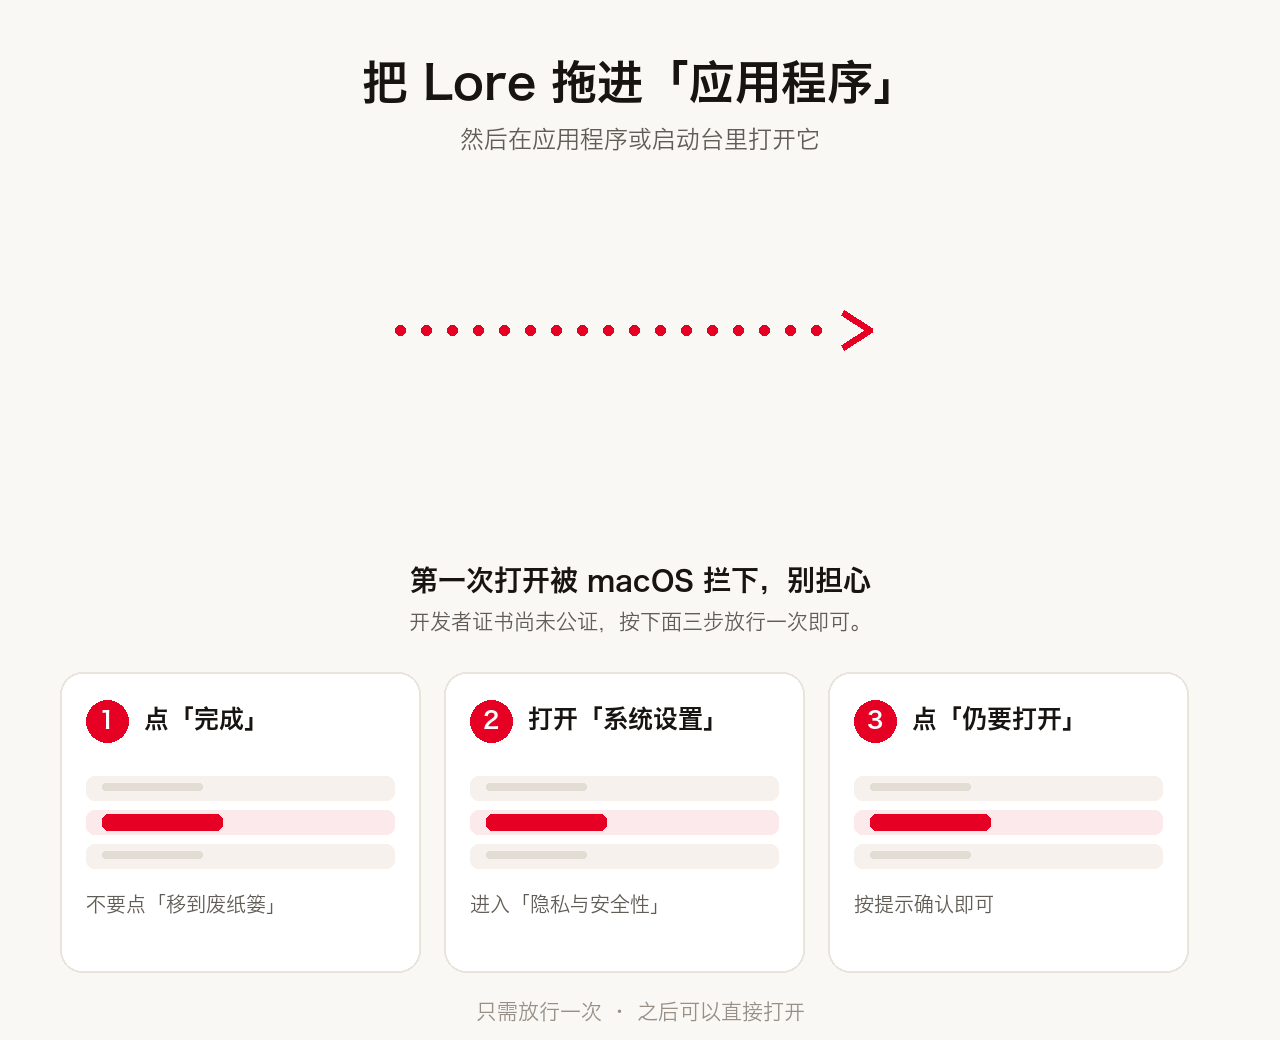
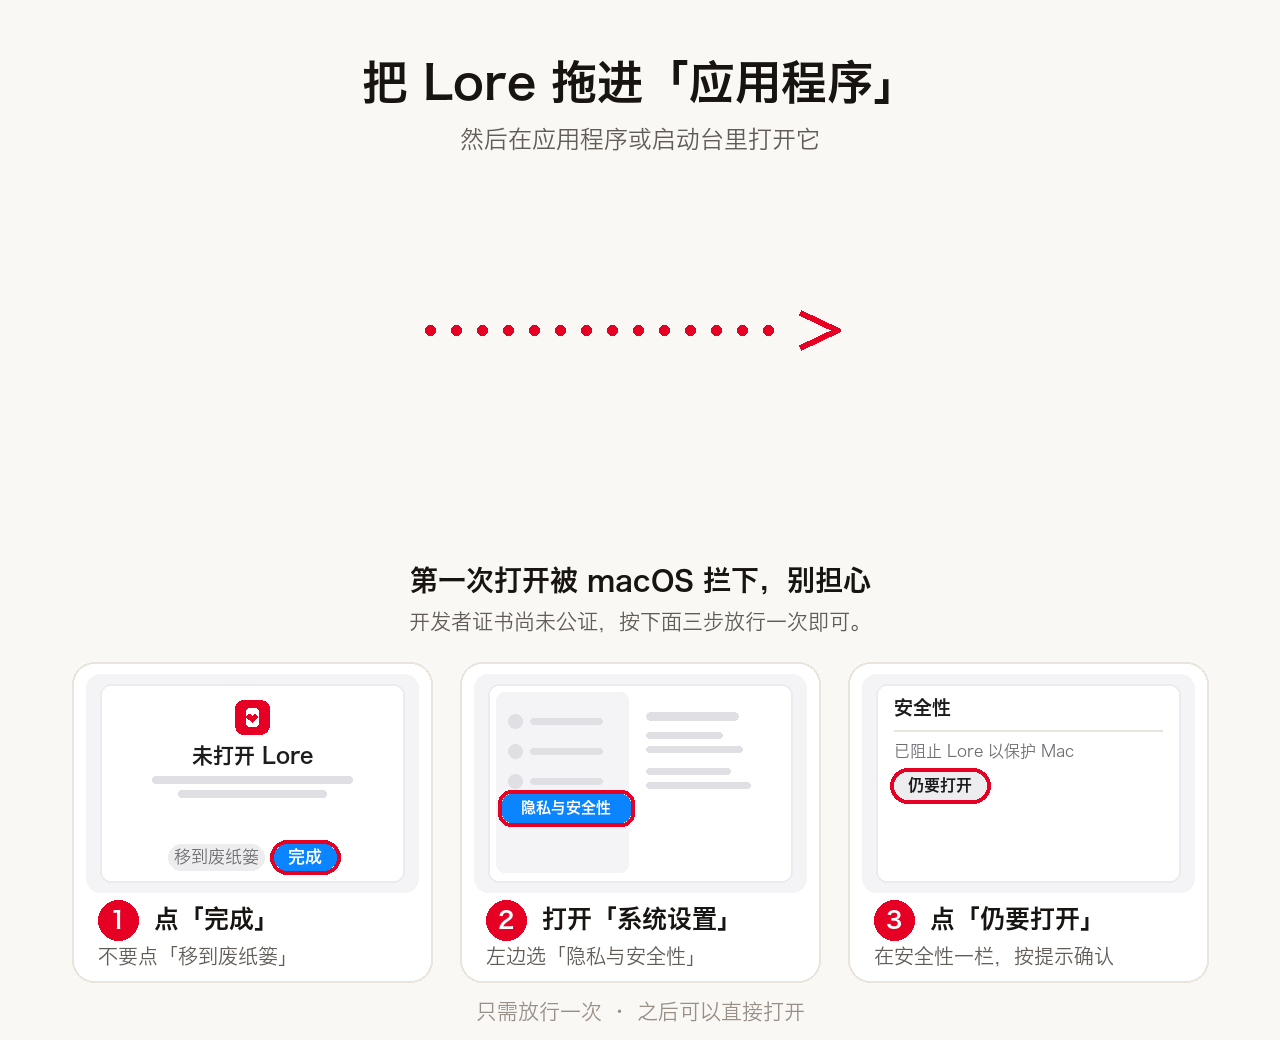
Refine the guided DMG instructions
Shorten the dotted path so it no longer touches the app and Applications icons. Rebuild each instruction card around a small dialog mock (alert, Privacy & Security sidebar, Security panel) with the action ringed in red, followed by the numbered title and explanation, matching the reference install page layout.

diff --git a/scripts/make-dmg-background.py b/scripts/make-dmg-background.py
@@ -1,13 +1,14 @@
 #!/usr/bin/env python3
-"""Generate the DMG installer background.
+"""Generate the guided DMG installer background (640x520 pt at 2x).
 
-The Finder window is 640x520 points; this draws at 2x (1280x1040) with a 144 DPI
-header so Finder shows it at the same point size on Retina displays.
+The three instruction cards mirror the reference install page: each one shows a
+small macOS dialog mock with the action highlighted, followed by a numbered
+title and a short explanation. Keep this file and `dmg-layout.applescript` in
+sync if icon positions move.
 """
 from PIL import Image, ImageDraw, ImageFont
 
 W, H = 1280, 1040
-SCALE = 2
 
 PAPER = (250, 248, 245)
 PAPER_DEEP = (243, 239, 233)
@@ -16,114 +17,233 @@ SECONDARY = (97, 92, 86)
 TERTIARY = (152, 144, 135)
 HAIRLINE = (233, 228, 220)
 RED = (230, 0, 35)
-RED_DEEP = (184, 0, 28)
 WHITE = (255, 255, 255)
 
-FONT_BOLD = "/System/Library/Fonts/Hiragino Sans GB.ttc"
-FONT_REGULAR = "/System/Library/Fonts/Hiragino Sans GB.ttc"
+CARD_FILL = (255, 255, 255)
+PANEL_FILL = (244, 244, 246)
+WINDOW_FILL = (255, 255, 255)
+SKELETON = (224, 224, 228)
+SKELETON_DARK = (209, 209, 214)
+BLUE = (10, 132, 255)
+BUTTON_GRAY = (237, 237, 240)
+MINI_INK = (28, 28, 30)
+MINI_SECONDARY = (110, 110, 115)
+
+FONT = "/System/Library/Fonts/Hiragino Sans GB.ttc"
 
 
-def font(path, size, index=0):
-    return ImageFont.truetype(path, size, index=index)
+def font(size, bold=False):
+    return ImageFont.truetype(FONT, size, index=2 if bold else 0)
 
 
-def center_text(draw, text, y, f, fill):
+def text_center(draw, text, center_x, y, f, fill):
     box = draw.textbbox((0, 0), text, font=f)
-    x = (W - (box[2] - box[0])) / 2
-    draw.text((x, y), text, font=f, fill=fill)
+    draw.text((center_x - (box[2] - box[0]) / 2, y), text, font=f, fill=fill)
+
+
+def lore_icon(draw, center_x, top, size=32):
+    """Small red app tile: enough to read as the Lore icon at this scale."""
+    draw.rounded_rectangle(
+        [center_x - size / 2, top, center_x + size / 2, top + size],
+        radius=size * 0.26,
+        fill=RED,
+    )
+    inner = size * 0.19
+    draw.rounded_rectangle(
+        [center_x - inner, top + size * 0.24, center_x + inner, top + size * 0.76],
+        radius=3,
+        fill=WHITE,
+    )
+    # Tiny heart on the tile.
+    hx, hy = center_x, top + size * 0.50
+    r = size * 0.075
+    draw.ellipse([hx - 2 * r, hy - r, hx, hy + r], fill=RED)
+    draw.ellipse([hx, hy - r, hx + 2 * r, hy + r], fill=RED)
+    draw.polygon([(hx - 1.8 * r, hy + 0.3 * r), (hx + 1.8 * r, hy + 0.3 * r), (hx, hy + 2.2 * r)], fill=RED)
+
+
+def mini_panel(draw, x0, y0, x1, y1):
+    draw.rounded_rectangle([x0, y0, x1, y1], radius=14, fill=PANEL_FILL)
+
+
+def mini_window(draw, x0, y0, x1, y1):
+    draw.rounded_rectangle([x0, y0, x1, y1], radius=11, fill=WINDOW_FILL,
+                           outline=(235, 235, 239), width=2)
+
+
+def skeleton_line(draw, x, y, width, height=6, fill=SKELETON):
+    draw.rounded_rectangle([x, y, x + width, y + height], radius=height / 2, fill=fill)
+
+
+def card_one_mini(draw, x0, y0, x1, y1):
+    """“Lore is not opened” alert with 完成 highlighted."""
+    mini_panel(draw, x0 + 14, y0, x1 - 14, y1)
+    mini_window(draw, x0 + 28, y0 + 10, x1 - 28, y1 - 10)
+    cx = (x0 + x1) / 2
+    lore_icon(draw, cx, y0 + 26, size=34)
+
+    title = font(21, bold=True)
+    text_center(draw, "未打开 Lore", cx, y0 + 70, title, MINI_INK)
+
+    skeleton_line(draw, cx - 100, y0 + 102, 200, 7, SKELETON)
+    skeleton_line(draw, cx - 74, y0 + 116, 148, 7, SKELETON)
+
+    button_y = y1 - 48
+    button_h = 26
+    left_w, right_w = 96, 62
+    total = left_w + 10 + right_w
+    left_x = cx - total / 2
+    right_x = left_x + left_w + 10
+
+    draw.rounded_rectangle(
+        [left_x, button_y, left_x + left_w, button_y + button_h],
+        radius=13,
+        fill=BUTTON_GRAY,
+    )
+    text_center(draw, "移到废纸篓", left_x + left_w / 2, button_y + 4, font(17), MINI_SECONDARY)
+
+    draw.rounded_rectangle(
+        [right_x, button_y, right_x + right_w, button_y + button_h],
+        radius=13,
+        fill=BLUE,
+    )
+    text_center(draw, "完成", right_x + right_w / 2, button_y + 4, font(17, bold=True), WHITE)
+
+    draw.rounded_rectangle(
+        [right_x - 4, button_y - 4, right_x + right_w + 4, button_y + button_h + 4],
+        radius=17,
+        outline=RED,
+        width=4,
+    )
+
+
+def card_two_mini(draw, x0, y0, x1, y1):
+    """System Settings sidebar with Privacy & Security highlighted."""
+    mini_panel(draw, x0 + 14, y0, x1 - 14, y1)
+    mini_window(draw, x0 + 28, y0 + 10, x1 - 28, y1 - 10)
+    wx0, wy0 = x0 + 28, y0 + 10
+    wx1 = x1 - 28
+
+    sidebar_w = 132
+    draw.rounded_rectangle(
+        [wx0 + 8, wy0 + 8, wx0 + 8 + sidebar_w, y1 - 20],
+        radius=8,
+        fill=PANEL_FILL,
+    )
+
+    for index in range(3):
+        row_y = wy0 + 30 + index * 30
+        draw.ellipse([wx0 + 20, row_y, wx0 + 34, row_y + 14], fill=SKELETON)
+        skeleton_line(draw, wx0 + 42, row_y + 4, 72, 6, SKELETON)
+
+    row_y = y1 - 98
+    row = [wx0 + 14, row_y, wx0 + 14 + sidebar_w - 4, row_y + 28]
+    draw.rounded_rectangle(row, radius=9, fill=BLUE)
+    text_center(draw, "隐私与安全性", (row[0] + row[2]) / 2, row_y + 5, font(15, bold=True), WHITE)
+    draw.rounded_rectangle(
+        [row[0] - 4, row[1] - 4, row[2] + 4, row[3] + 4],
+        radius=13,
+        outline=RED,
+        width=4,
+    )
+
+    content_x = wx0 + sidebar_w + 26
+    skeleton_line(draw, content_x, wy0 + 28, 92, 8, SKELETON)
+    skeleton_line(draw, content_x, wy0 + 48, 76, 6, SKELETON)
+    skeleton_line(draw, content_x, wy0 + 62, 96, 6, SKELETON)
+    skeleton_line(draw, content_x, wy0 + 84, 84, 6, SKELETON)
+    skeleton_line(draw, content_x, wy0 + 98, 104, 6, SKELETON)
+
+
+def card_three_mini(draw, x0, y0, x1, y1):
+    """Security panel with 仍要打开 highlighted."""
+    mini_panel(draw, x0 + 14, y0, x1 - 14, y1)
+    mini_window(draw, x0 + 28, y0 + 10, x1 - 28, y1 - 10)
+    wx0, wy0 = x0 + 28, y0 + 10
+    wx1 = x1 - 28
+
+    draw.text((wx0 + 18, wy0 + 14), "安全性", font=font(19, bold=True), fill=MINI_INK)
+    draw.line([(wx0 + 18, wy0 + 46), (wx1 - 18, wy0 + 46)], fill=HAIRLINE, width=2)
+    draw.text((wx0 + 18, wy0 + 58), "已阻止 Lore 以保护 Mac", font=font(16), fill=MINI_SECONDARY)
+
+    button = [wx0 + 18, wy0 + 88, wx0 + 18 + 92, wy0 + 88 + 27]
+    draw.rounded_rectangle(button, radius=13, fill=BUTTON_GRAY)
+    text_center(draw, "仍要打开", (button[0] + button[2]) / 2, button[1] + 4, font(16, bold=True), MINI_INK)
+    draw.rounded_rectangle(
+        [button[0] - 4, button[1] - 4, button[2] + 4, button[3] + 4],
+        radius=17,
+        outline=RED,
+        width=4,
+    )
 
 
 def main():
     image = Image.new("RGB", (W, H), PAPER)
     draw = ImageDraw.Draw(image)
 
-    bold = font(FONT_BOLD, 46, index=2)
-    title = font(FONT_BOLD, 28, index=2)
-    subtitle = font(FONT_REGULAR, 24, index=0)
-    small = font(FONT_REGULAR, 21, index=0)
-    step_title = font(FONT_BOLD, 25, index=2)
-    step_body = font(FONT_REGULAR, 20, index=0)
-    number = font(FONT_BOLD, 23, index=2)
+    bold = font(46, bold=True)
+    title = font(28, bold=True)
+    subtitle = font(24)
+    small = font(21)
+    step_title = font(25, bold=True)
+    step_body = font(20)
+    number = font(23, bold=True)
 
     # Headline
-    center_text(draw, "把 Lore 拖进「应用程序」", 58, bold, INK)
-    center_text(draw, "然后在应用程序或启动台里打开它", 126, subtitle, SECONDARY)
+    text_center(draw, "把 Lore 拖进「应用程序」", W / 2, 58, bold, INK)
+    text_center(draw, "然后在应用程序或启动台里打开它", W / 2, 126, subtitle, SECONDARY)
 
-    # Dotted guide between the app and the Applications folder. The real Finder
-    # icons sit on top of this line at (160, 300) and (480, 300).
+    # Dotted guide. Leave breathing room on both sides of the app and folder
+    # icons, which Finder draws over this background.
     y = 330
-    x = 400
-    while x < 830:
+    x = 430
+    while x < 790:
         draw.ellipse((x - 5, y - 5, x + 5, y + 5), fill=RED)
         x += 26
-    draw.line([(842, y - 18), (870, y), (842, y + 18)], fill=RED, width=6, joint="curve")
+    draw.line([(800, y - 18), (838, y), (800, y + 18)], fill=RED, width=6, joint="curve")
 
-    # First-launch guidance. The app is ad-hoc signed, so the reference steps
-    # mirror what macOS actually shows.
-    center_text(draw, "第一次打开被 macOS 拦下，别担心", 566, title, INK)
-    center_text(draw, "开发者证书尚未公证，按下面三步放行一次即可。", 610, small, SECONDARY)
+    # First-launch guidance.
+    text_center(draw, "第一次打开被 macOS 拦下，别担心", W / 2, 566, title, INK)
+    text_center(draw, "开发者证书尚未公证，按下面三步放行一次即可。", W / 2, 610, small, SECONDARY)
 
     cards = [
-        ("1", "点「完成」", "不要点「移到废纸篓」"),
-        ("2", "打开「系统设置」", "进入「隐私与安全性」"),
-        ("3", "点「仍要打开」", "按提示确认即可"),
+        ("1", "点「完成」", "不要点「移到废纸篓」", card_one_mini),
+        ("2", "打开「系统设置」", "左边选「隐私与安全性」", card_two_mini),
+        ("3", "点「仍要打开」", "在安全性一栏，按提示确认", card_three_mini),
     ]
-    card_top = 672
-    card_height = 300
-    card_gap = 24
+    card_top = 662
+    card_height = 320
+    card_gap = 28
     card_width = 360
-    left = 60
-    for index, (number_text, heading, body) in enumerate(cards):
+    left = (W - (card_width * 3 + card_gap * 2)) / 2
+
+    for index, (number_text, heading, body, mini) in enumerate(cards):
         x0 = left + index * (card_width + card_gap)
         x1 = x0 + card_width
         draw.rounded_rectangle(
             [x0, card_top, x1, card_top + card_height],
             radius=22,
-            fill=WHITE,
+            fill=CARD_FILL,
             outline=HAIRLINE,
             width=2,
         )
-        # Number badge
+
+        mini(draw, x0, card_top + 12, x1, card_top + 230)
+
         badge_x = x0 + 26
-        badge_y = card_top + 28
-        draw.ellipse([badge_x, badge_y, badge_x + 42, badge_y + 42], fill=RED)
+        badge_y = card_top + 238
+        draw.ellipse([badge_x, badge_y, badge_x + 40, badge_y + 40], fill=RED)
         box = draw.textbbox((0, 0), number_text, font=number)
         draw.text(
-            (badge_x + (42 - (box[2] - box[0])) / 2, badge_y + 7),
+            (badge_x + (40 - (box[2] - box[0])) / 2, badge_y + 7),
             number_text,
             font=number,
             fill=WHITE,
         )
-        draw.text((badge_x + 58, badge_y + 6), heading, font=step_title, fill=INK)
+        draw.text((badge_x + 56, badge_y + 6), heading, font=step_title, fill=INK)
+        draw.text((x0 + 26, card_top + 284), body, font=step_body, fill=SECONDARY)
 
-        # A small step illustration: three horizontal rows, with the action row
-        # in red, echoing the system dialogs.
-        row_y = card_top + 104
-        for row in range(3):
-            rx0 = x0 + 26
-            rx1 = x1 - 26
-            rh = 24
-            color = (246, 241, 237) if row != 1 else (252, 233, 236)
-            draw.rounded_rectangle([rx0, row_y, rx1, row_y + rh], radius=8, fill=color)
-            if row == 1:
-                draw.rounded_rectangle(
-                    [rx0 + 16, row_y + 4, rx0 + 136, row_y + rh - 4],
-                    radius=6,
-                    fill=RED,
-                )
-            else:
-                draw.rounded_rectangle(
-                    [rx0 + 16, row_y + 7, rx0 + 116, row_y + 14],
-                    radius=3,
-                    fill=(226, 220, 213),
-                )
-            row_y += rh + 10
-
-        # Body copy, wrapped to the card width.
-        draw.text((x0 + 26, card_top + 222), body, font=step_body, fill=SECONDARY)
-
-    # Footer note
-    center_text(draw, "只需放行一次 · 之后可以直接打开", 1000, small, TERTIARY)
+    text_center(draw, "只需放行一次 · 之后可以直接打开", W / 2, 1000, small, TERTIARY)
 
     image.save(
         "scripts/dmg-background.png",
